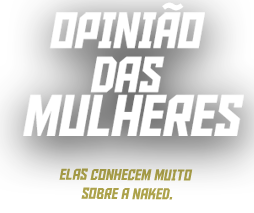
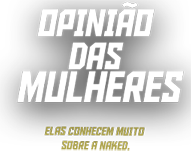
modificacoes da home

diff --git a/css/screen.css b/css/screen.css
@@ -4,12 +4,12 @@
 @import url("common/structure.css");
 /* -- Fim dos Estilos Importados -- */
 
-#home { background:url(../img/home_bg.jpg) no-repeat top center; }
+#home { background:url(../img/home_bg.jpg) no-repeat center -50px; }
 #home #mulheres { width: 480px; left:10%; top:165px; }
-#home #mulheres .txt_mulheres { margin-left:120px; padding-top:310px; }
+#home #mulheres .txt_mulheres { margin-left:150px; padding-top:210px; }
 #home .moto { width: 570px; left:35%; top:150px; }
 #home #proprietarios { width: 480px; right:10%; top:150px; }
-#home #proprietarios .txt_props { margin:55px 0 0 0; padding-top:270px; }
+#home #proprietarios .txt_props { margin:55px 0 0 40px; padding-top:168px; }
 #home #proprietarios_embreve { width:466px; height:217px; top:300px; background:url(../img/proprietario_embreve.png) no-repeat left top; }
 #home #proprietarios_embreve a.fechar_embreve { width:40px; height:40px; }
 

diff --git a/index.html b/index.html
@@ -68,10 +68,10 @@
 			<div id="content">
 				<div id="home" class="tela pr">
 					<div id="mulheres" class="pa">
-						<a href="opiniao-das-mulheres.html" class="txt_mulheres db"><img src="img/home_mulheres_txt.png" width="254" height="213" alt="" /></a>
+						<a href="opiniao-das-mulheres.html" class="txt_mulheres db"><img src="img/home_mulheres_txt.png" width="191" height="160" alt="" /></a>
 					</div>
 					<div id="proprietarios" class="pa">
-						<a href="opiniao-dos-proprietarios.html" class="txt_props db"><img src="img/home_props_txt.png" width="346" height="204" alt="" /></a>
+						<a href="opiniao-dos-proprietarios.html" class="txt_props db"><img src="img/home_props_txt.png" width="271" height="160" alt="" /></a>
 					</div>
 					
 					<div id="proprietarios_embreve" class="pa dn">
